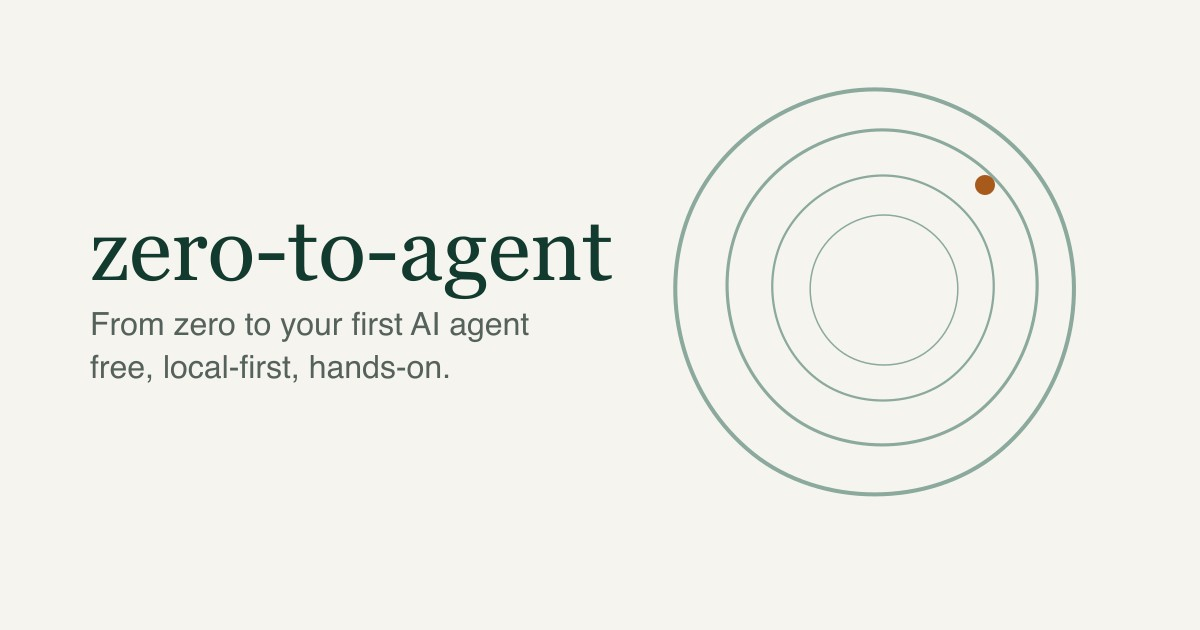
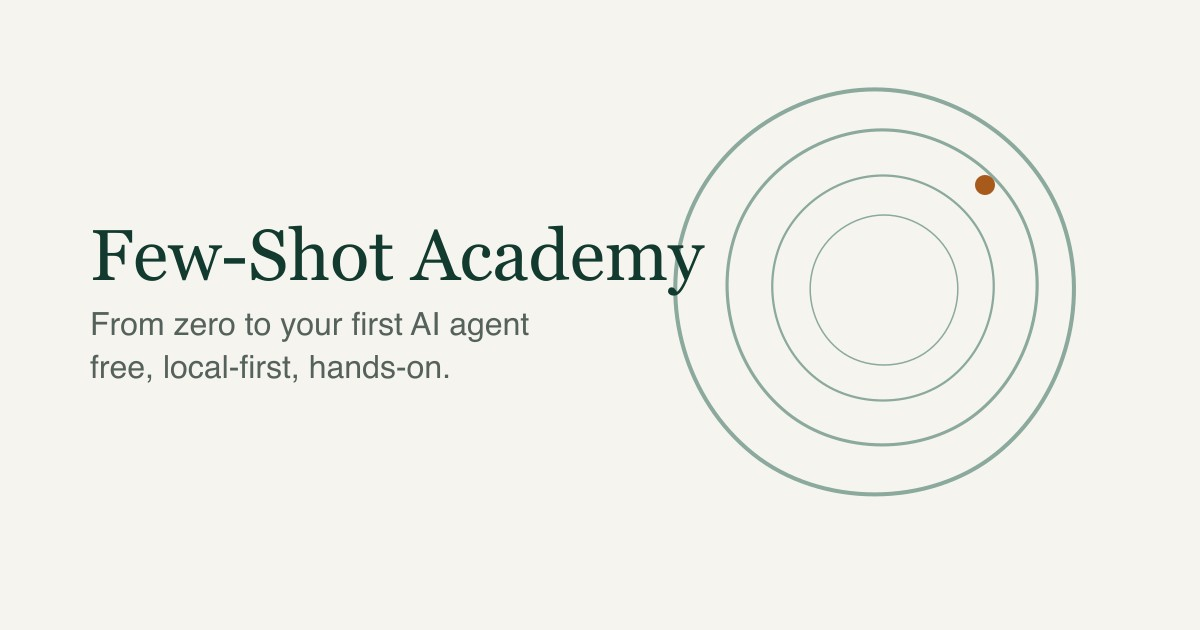
Rebrand: zero-to-agent -> Few-Shot Academy (slug: academy)
zero-to-agent collided with multiple unrelated existing projects. Renames
the display name to "Few-Shot Academy" and the technical slug to "academy"
across Docusaurus config, GitHub links, lab READMEs, docs, social card,
and the deploy workflow's zip filename.

Changed region(s): [[0.0617, 0.3619, 0.5858, 0.4825]]

diff --git a/site/docusaurus.config.ts b/site/docusaurus.config.ts
@@ -5,7 +5,7 @@ import type * as Preset from '@docusaurus/preset-classic';
 // This runs in Node.js - Don't use client-side code here (browser APIs, JSX...)
 
 const config: Config = {
-  title: 'zero-to-agent',
+  title: 'Few-Shot Academy',
   tagline: 'From zero to your first AI agent — free, local-first, hands-on.',
   favicon: 'img/favicon.svg',
 
@@ -21,10 +21,10 @@ const config: Config = {
 
   // GitHub Pages project-site URL. Update if a custom domain is added later.
   url: 'https://fewshot-works.github.io',
-  baseUrl: '/zero-to-agent/',
+  baseUrl: '/academy/',
 
   organizationName: 'fewshot-works', // GitHub org/user name
-  projectName: 'zero-to-agent', // GitHub repo name
+  projectName: 'academy', // GitHub repo name
   deploymentBranch: 'gh-pages',
   trailingSlash: false,
 
@@ -37,15 +37,15 @@ const config: Config = {
       innerHTML: JSON.stringify({
         '@context': 'https://schema.org',
         '@type': 'Course',
-        name: 'zero-to-agent',
+        name: 'Few-Shot Academy',
         description:
           'A free, open-source, chapter-wise curriculum for Generative AI, LLMs, Vector Databases, RAG, and Agents — from zero prior AI knowledge to a working, evaluated agentic RAG system. Every lesson is hands-on and runs locally for free via Ollama.',
-        url: 'https://fewshot-works.github.io/zero-to-agent/',
+        url: 'https://fewshot-works.github.io/academy/',
         isAccessibleForFree: true,
         provider: {
           '@type': 'Organization',
-          name: 'zero-to-agent',
-          url: 'https://fewshot-works.github.io/zero-to-agent/',
+          name: 'Few-Shot Academy',
+          url: 'https://fewshot-works.github.io/academy/',
         },
       }),
     },
@@ -86,7 +86,7 @@ const config: Config = {
       {
         docs: {
           sidebarPath: './sidebars.ts',
-          editUrl: 'https://github.com/fewshot-works/zero-to-agent/tree/main/site/',
+          editUrl: 'https://github.com/fewshot-works/academy/tree/main/site/',
         },
         blog: false,
         theme: {
@@ -146,9 +146,9 @@ const config: Config = {
       },
     },
     navbar: {
-      title: 'zero-to-agent',
+      title: 'Few-Shot Academy',
       logo: {
-        alt: 'zero-to-agent logo',
+        alt: 'Few-Shot Academy logo',
         src: 'img/logo.svg',
       },
       items: [
@@ -168,7 +168,7 @@ const config: Config = {
           items: [
             {
               label: 'Hands-on labs',
-              href: 'https://github.com/fewshot-works/zero-to-agent/tree/main/labs',
+              href: 'https://github.com/fewshot-works/academy/tree/main/labs',
             },
             {
               label: 'Disclaimer',
@@ -190,7 +190,7 @@ const config: Config = {
           ],
         },
       ],
-      copyright: `Copyright © ${new Date().getFullYear()} zero-to-agent. Code under MIT, content under CC BY 4.0.`,
+      copyright: `Copyright © ${new Date().getFullYear()} Few-Shot Academy. Code under MIT, content under CC BY 4.0.`,
     },
     prism: {
       theme: prismThemes.github,

diff --git a/site/src/theme/Root.tsx b/site/src/theme/Root.tsx
@@ -26,7 +26,7 @@ function DisclaimerBanner() {
   return (
     <div className={styles.banner} role="note">
       <p className={styles.text}>
-        zero-to-agent is a free, open-source course, not professional advice.
+        Few-Shot Academy is a free, open-source course, not professional advice.
         Some labs use a paid API (OpenAI or Anthropic) that bills you
         directly, at your own risk — this project never sees your key or
         your money. Content is provided as-is, with no guarantee of

diff --git a/site/src/components/HomepageFeatures/index.tsx b/site/src/components/HomepageFeatures/index.tsx
@@ -10,7 +10,7 @@ type FeatureItem = {
 
 const FeatureList: FeatureItem[] = [
   {
-    title: 'Zero to Agent, One Coherent Arc',
+    title: 'One Coherent Arc, Start to Finish',
     description: (
       <>
         Start with "what is a token?" and end with a working, evaluated

diff --git a/labs/intermediate/09-capstone/agent.py b/labs/intermediate/09-capstone/agent.py
@@ -137,7 +137,7 @@ def search_wikipedia(query: str) -> str:
     response = requests.get(
         "https://en.wikipedia.org/w/api.php",
         params={"action": "query", "list": "search", "srsearch": query, "format": "json", "srlimit": 1},
-        headers={"User-Agent": "zero-to-agent-tutorial (https://github.com/fewshot-works/zero-to-agent)"},
+        headers={"User-Agent": "academy-tutorial (https://github.com/fewshot-works/academy)"},
     )
     results = response.json()["query"]["search"]
     if not results:

diff --git a/labs/intermediate/06-your-first-agent/agent.py b/labs/intermediate/06-your-first-agent/agent.py
@@ -66,7 +66,7 @@ def search_wikipedia(query: str) -> str:
     response = requests.get(
         "https://en.wikipedia.org/w/api.php",
         params={"action": "query", "list": "search", "srsearch": query, "format": "json", "srlimit": 1},
-        headers={"User-Agent": "zero-to-agent-tutorial (https://github.com/fewshot-works/zero-to-agent)"},
+        headers={"User-Agent": "academy-tutorial (https://github.com/fewshot-works/academy)"},
     )
     results = response.json()["query"]["search"]
     if not results:

diff --git a/labs/intermediate/07-memory/chat_short_term.py b/labs/intermediate/07-memory/chat_short_term.py
@@ -63,7 +63,7 @@ def search_wikipedia(query: str) -> str:
     response = requests.get(
         "https://en.wikipedia.org/w/api.php",
         params={"action": "query", "list": "search", "srsearch": query, "format": "json", "srlimit": 1},
-        headers={"User-Agent": "zero-to-agent-tutorial (https://github.com/fewshot-works/zero-to-agent)"},
+        headers={"User-Agent": "academy-tutorial (https://github.com/fewshot-works/academy)"},
     )
     results = response.json()["query"]["search"]
     if not results:

diff --git a/labs/intermediate/07-memory/chat_summarized.py b/labs/intermediate/07-memory/chat_summarized.py
@@ -73,7 +73,7 @@ def search_wikipedia(query: str) -> str:
     response = requests.get(
         "https://en.wikipedia.org/w/api.php",
         params={"action": "query", "list": "search", "srsearch": query, "format": "json", "srlimit": 1},
-        headers={"User-Agent": "zero-to-agent-tutorial (https://github.com/fewshot-works/zero-to-agent)"},
+        headers={"User-Agent": "academy-tutorial (https://github.com/fewshot-works/academy)"},
     )
     results = response.json()["query"]["search"]
     if not results:

diff --git a/labs/intermediate/05-tool-use/tool_use.py b/labs/intermediate/05-tool-use/tool_use.py
@@ -63,7 +63,7 @@ def search_wikipedia(query):
     response = requests.get(
         "https://en.wikipedia.org/w/api.php",
         params={"action": "query", "list": "search", "srsearch": query, "format": "json", "srlimit": 1},
-        headers={"User-Agent": "zero-to-agent-tutorial (https://github.com/fewshot-works/zero-to-agent)"},
+        headers={"User-Agent": "academy-tutorial (https://github.com/fewshot-works/academy)"},
     )
     results = response.json()["query"]["search"]
     if not results:

diff --git a/labs/intermediate/03-better-retrieval/README.md b/labs/intermediate/03-better-retrieval/README.md
@@ -1,10 +1,10 @@
 # Lab 3: Better Retrieval
 
-Companion lab for [Intermediate Chapter 3: Better Retrieval](https://fewshot-works.github.io/zero-to-agent/docs/intermediate/better-retrieval). You'll retrieve from the same set of documents four different ways, plain vector search, metadata filtering, hybrid search, and LLM re-ranking, and see where each one helps.
+Companion lab for [Intermediate Chapter 3: Better Retrieval](https://fewshot-works.github.io/academy/docs/intermediate/better-retrieval). You'll retrieve from the same set of documents four different ways, plain vector search, metadata filtering, hybrid search, and LLM re-ranking, and see where each one helps.
 
 ## Before you start
 
-You should already have Foundations done, at least [Chapter 6: What Is RAG](https://fewshot-works.github.io/zero-to-agent/docs/foundations/what-is-rag) — this lab reuses that lab's `embed()` and `ask()` pattern, and its corpus starts with the same fictional company, Fernwood Coffee Co., now sharing a bigger, deliberately confusable set of documents with two other fictional coffee companies.
+You should already have Foundations done, at least [Chapter 6: What Is RAG](https://fewshot-works.github.io/academy/docs/foundations/what-is-rag) — this lab reuses that lab's `embed()` and `ask()` pattern, and its corpus starts with the same fictional company, Fernwood Coffee Co., now sharing a bigger, deliberately confusable set of documents with two other fictional coffee companies.
 
 **This lab only supports `PROVIDER=ollama` or `PROVIDER=openai`.** It needs one provider that can do both embeddings and chat, and Anthropic doesn't offer an embeddings API.
 
@@ -13,17 +13,17 @@ You should already have Foundations done, at least [Chapter 6: What Is RAG](http
 1. **Move into the lab folder.** If you already cloned the repo for an earlier lab, just `cd` into this one:
 
    ```bash
-   cd zero-to-agent/labs/intermediate/03-better-retrieval
+   cd academy/labs/intermediate/03-better-retrieval
    ```
 
    Otherwise, clone the repo first:
 
    ```bash
-   git clone https://github.com/fewshot-works/zero-to-agent.git
-   cd zero-to-agent/labs/intermediate/03-better-retrieval
+   git clone https://github.com/fewshot-works/academy.git
+   cd academy/labs/intermediate/03-better-retrieval
    ```
 
-   Don't know git yet? [Download the Intermediate labs zip](https://fewshot-works.github.io/zero-to-agent/downloads/zero-to-agent-labs-intermediate.zip) instead, unzip it, and open `labs/intermediate/03-better-retrieval` in a terminal.
+   Don't know git yet? [Download the Intermediate labs zip](https://fewshot-works.github.io/academy/downloads/academy-labs-intermediate.zip) instead, unzip it, and open `labs/intermediate/03-better-retrieval` in a terminal.
 
 2. **If you're using Ollama, make sure both models are pulled:**
 

diff --git a/labs/intermediate/01-chunking-strategies/README.md b/labs/intermediate/01-chunking-strategies/README.md
@@ -1,10 +1,10 @@
 # Lab 1: Chunking Strategies
 
-Companion lab for [Intermediate Chapter 1: Chunking Strategies](https://fewshot-works.github.io/zero-to-agent/docs/intermediate/chunking-strategies). You'll cut the same short document three different ways, fixed-size, recursive, and semantic, and compare what each one actually produces.
+Companion lab for [Intermediate Chapter 1: Chunking Strategies](https://fewshot-works.github.io/academy/docs/intermediate/chunking-strategies). You'll cut the same short document three different ways, fixed-size, recursive, and semantic, and compare what each one actually produces.
 
 ## Before you start
 
-You should have already completed Foundations, or at least [Chapter 4: What Is an Embedding?](https://fewshot-works.github.io/zero-to-agent/docs/foundations/what-is-an-embedding) — this lab reuses the same `embed()` and `cosine_similarity()` building blocks from that lab's `embed_similarity.py`.
+You should have already completed Foundations, or at least [Chapter 4: What Is an Embedding?](https://fewshot-works.github.io/academy/docs/foundations/what-is-an-embedding) — this lab reuses the same `embed()` and `cosine_similarity()` building blocks from that lab's `embed_similarity.py`.
 
 **This lab only supports `PROVIDER=ollama` or `PROVIDER=openai`.** Semantic chunking needs an embedding model, and Anthropic doesn't offer one, so if your `.env` from an earlier lab still has `PROVIDER=anthropic`, you'll need to change it here.
 
@@ -13,17 +13,17 @@ You should have already completed Foundations, or at least [Chapter 4: What Is a
 1. **Move into this lab folder.** If you already cloned the repo for an earlier lab, just `cd` into this one:
 
    ```bash
-   cd zero-to-agent/labs/intermediate/01-chunking-strategies
+   cd academy/labs/intermediate/01-chunking-strategies
    ```
 
    Otherwise, clone the repo first:
 
    ```bash
-   git clone https://github.com/fewshot-works/zero-to-agent.git
-   cd zero-to-agent/labs/intermediate/01-chunking-strategies
+   git clone https://github.com/fewshot-works/academy.git
+   cd academy/labs/intermediate/01-chunking-strategies
    ```
 
-   Don't know git yet? [Download the Intermediate labs as a zip](https://fewshot-works.github.io/zero-to-agent/downloads/zero-to-agent-labs-intermediate.zip) instead, unzip it, and open `labs/intermediate/01-chunking-strategies` in your terminal.
+   Don't know git yet? [Download the Intermediate labs as a zip](https://fewshot-works.github.io/academy/downloads/academy-labs-intermediate.zip) instead, unzip it, and open `labs/intermediate/01-chunking-strategies` in your terminal.
 
 2. **If you're using Ollama, pull the embedding model** (skip if you already did this for a Foundations lab):
 

diff --git a/labs/intermediate/02-choosing-embedding-model/README.md b/labs/intermediate/02-choosing-embedding-model/README.md
@@ -1,10 +1,10 @@
 # Lab 2: Choosing an Embedding Model
 
-Companion lab for [Intermediate Chapter 2: Choosing an Embedding Model](https://fewshot-works.github.io/zero-to-agent/docs/intermediate/choosing-embedding-model). You'll embed the same sentences with two different embedding models and compare them on quality, speed, and cost.
+Companion lab for [Intermediate Chapter 2: Choosing an Embedding Model](https://fewshot-works.github.io/academy/docs/intermediate/choosing-embedding-model). You'll embed the same sentences with two different embedding models and compare them on quality, speed, and cost.
 
 ## Before you start
 
-You should already have Foundations done, at least [Chapter 4: What Is an Embedding?](https://fewshot-works.github.io/zero-to-agent/docs/foundations/what-is-an-embedding) — this lab reuses the same `embed()` and `cosine_similarity()` building blocks from that lab's `embed_similarity.py`.
+You should already have Foundations done, at least [Chapter 4: What Is an Embedding?](https://fewshot-works.github.io/academy/docs/foundations/what-is-an-embedding) — this lab reuses the same `embed()` and `cosine_similarity()` building blocks from that lab's `embed_similarity.py`.
 
 **This lab only supports `PROVIDER=ollama` or `PROVIDER=openai`.** Anthropic doesn't offer an embeddings API, so if your `.env` from an earlier lab still has `PROVIDER=anthropic`, you'll need to change it here.
 
@@ -13,17 +13,17 @@ You should already have Foundations done, at least [Chapter 4: What Is an Embedd
 1. **Move into the lab folder.** If you already cloned the repo for an earlier lab, just `cd` into this one:
 
    ```bash
-   cd zero-to-agent/labs/intermediate/02-choosing-embedding-model
+   cd academy/labs/intermediate/02-choosing-embedding-model
    ```
 
    Otherwise, clone the repo first:
 
    ```bash
-   git clone https://github.com/fewshot-works/zero-to-agent.git
-   cd zero-to-agent/labs/intermediate/02-choosing-embedding-model
+   git clone https://github.com/fewshot-works/academy.git
+   cd academy/labs/intermediate/02-choosing-embedding-model
    ```
 
-   Don't know git yet? [Download the Intermediate labs zip](https://fewshot-works.github.io/zero-to-agent/downloads/zero-to-agent-labs-intermediate.zip) instead, unzip it, and open `labs/intermediate/02-choosing-embedding-model` in a terminal.
+   Don't know git yet? [Download the Intermediate labs zip](https://fewshot-works.github.io/academy/downloads/academy-labs-intermediate.zip) instead, unzip it, and open `labs/intermediate/02-choosing-embedding-model` in a terminal.
 
 2. **If you're using Ollama, pull both embedding models.** This lab compares a smaller model against a larger one, so you need both on your machine:
 

diff --git a/labs/foundations/08-capstone-qa-bot/README.md b/labs/foundations/08-capstone-qa-bot/README.md
@@ -1,27 +1,27 @@
 # Lab 8: Capstone: Your Own Q&A Bot
 
-Companion lab for [Chapter 8: Capstone: A Q&A Bot Over Your Own Documents](https://fewshot-works.github.io/zero-to-agent/docs/foundations/capstone-qa-bot). This is the Foundations capstone: a reusable bot that answers questions about a whole folder of documents, saved to disk so it doesn't have to redo the embedding work every time you run it.
+Companion lab for [Chapter 8: Capstone: A Q&A Bot Over Your Own Documents](https://fewshot-works.github.io/academy/docs/foundations/capstone-qa-bot). This is the Foundations capstone: a reusable bot that answers questions about a whole folder of documents, saved to disk so it doesn't have to redo the embedding work every time you run it.
 
 ## Before you start
 
-You should have already completed [Chapter 0: Set Up Your Machine](https://fewshot-works.github.io/zero-to-agent/docs/foundations/setup) and the [Chapter 6 lab](../06-first-rag-bot). **This lab only supports `PROVIDER=ollama` or `PROVIDER=openai`.** It needs one provider that can handle both embeddings and chat, and Anthropic doesn't offer an embeddings API.
+You should have already completed [Chapter 0: Set Up Your Machine](https://fewshot-works.github.io/academy/docs/foundations/setup) and the [Chapter 6 lab](../06-first-rag-bot). **This lab only supports `PROVIDER=ollama` or `PROVIDER=openai`.** It needs one provider that can handle both embeddings and chat, and Anthropic doesn't offer an embeddings API.
 
 ## Steps
 
 1. **Move into the lab folder.** If you already cloned the repo for an earlier lab, just `cd` into this one:
 
    ```bash
-   cd zero-to-agent/labs/foundations/08-capstone-qa-bot
+   cd academy/labs/foundations/08-capstone-qa-bot
    ```
 
    Otherwise, clone the repo first:
 
    ```bash
-   git clone https://github.com/fewshot-works/zero-to-agent.git
-   cd zero-to-agent/labs/foundations/08-capstone-qa-bot
+   git clone https://github.com/fewshot-works/academy.git
+   cd academy/labs/foundations/08-capstone-qa-bot
    ```
 
-   Don't know git yet? [Download the Foundations labs as a zip](https://fewshot-works.github.io/zero-to-agent/downloads/zero-to-agent-labs-foundations.zip) instead, unzip it, and open `labs/foundations/08-capstone-qa-bot` in your terminal.
+   Don't know git yet? [Download the Foundations labs as a zip](https://fewshot-works.github.io/academy/downloads/academy-labs-foundations.zip) instead, unzip it, and open `labs/foundations/08-capstone-qa-bot` in your terminal.
 
 2. **If you're using Ollama, make sure you've pulled the embedding model.** Same model used since Chapter 4, skip this if you already have it:
 
